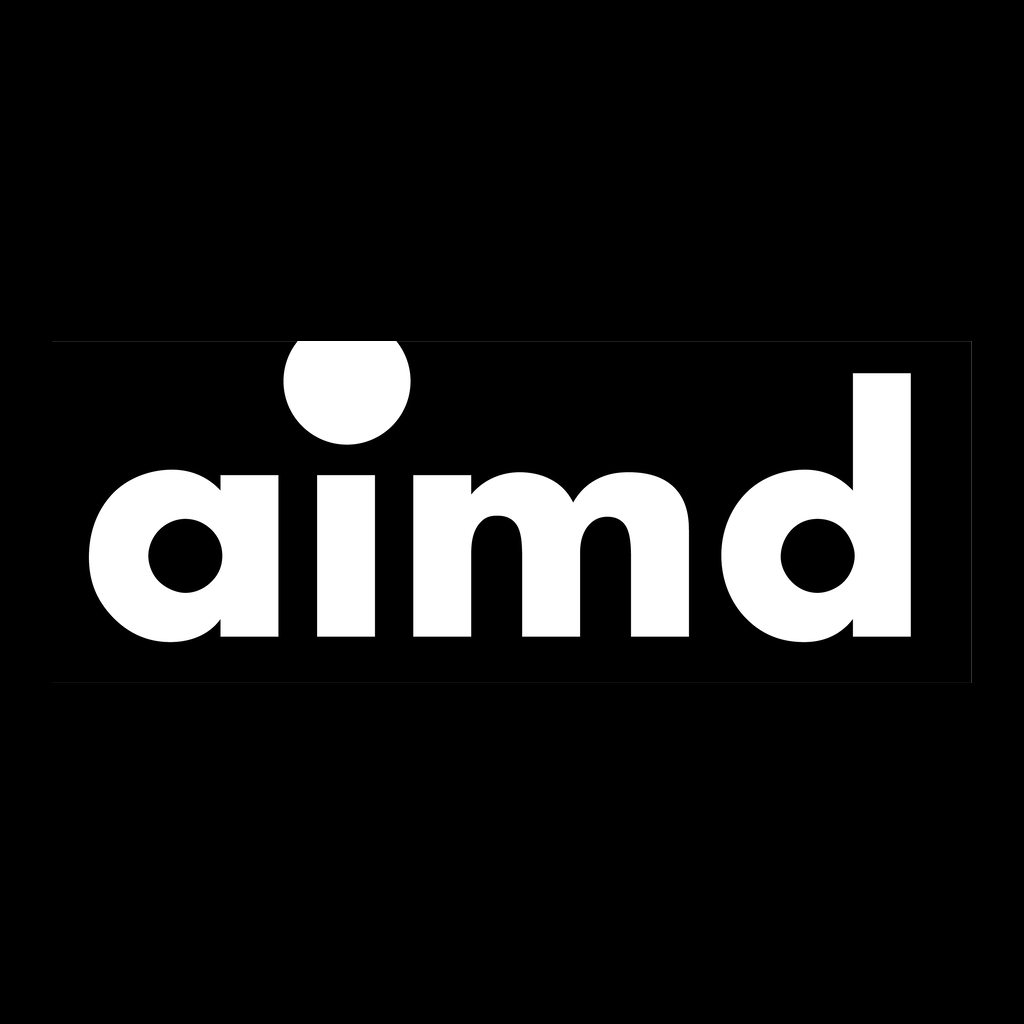
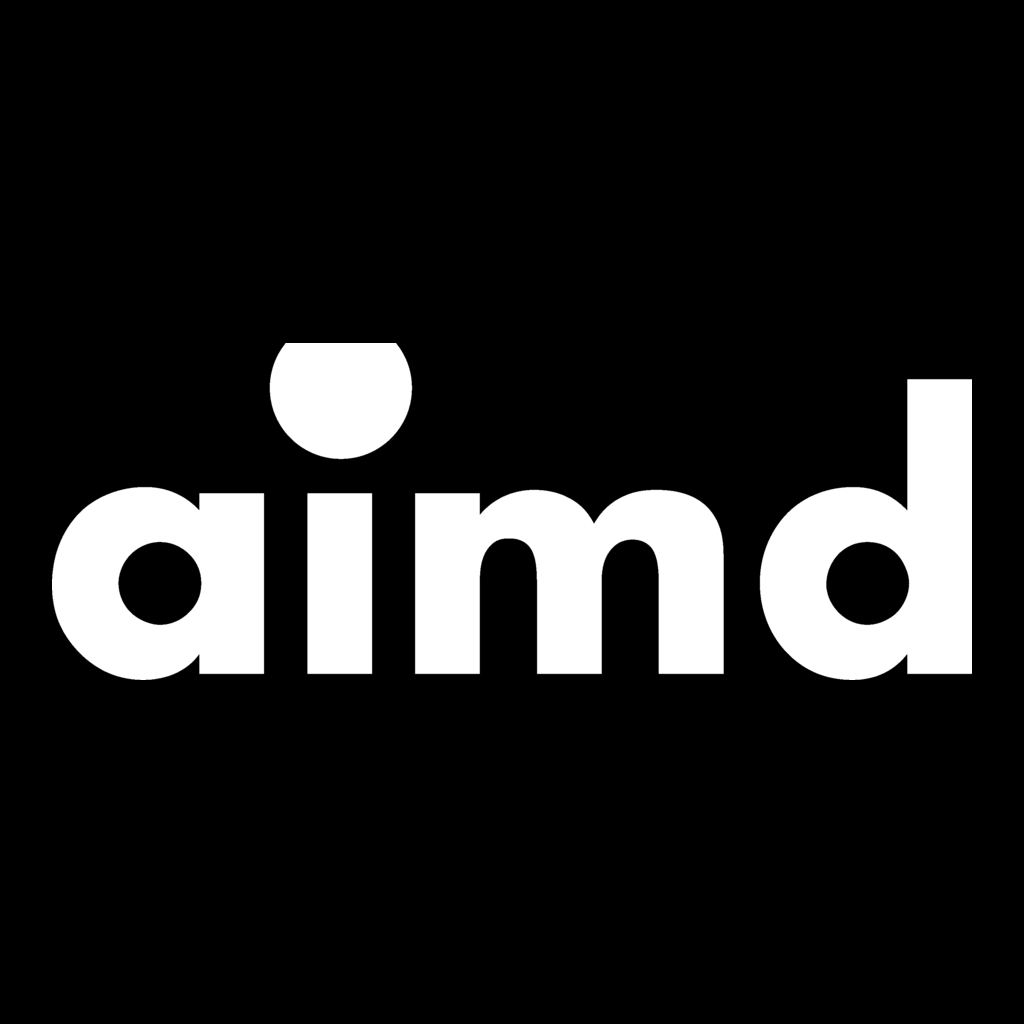
Update agent metadata and asset images
Replit-Commit-Author: Agent

Changed region(s): [[0.4062, 0.3438, 0.9688, 0.6875], [0.0312, 0.3438, 0.4062, 0.6875], [0.2812, 0.3125, 0.3125, 0.3438]]

diff --git a/.agents/memory/logo-image-preparation.md b/.agents/memory/logo-image-preparation.md
@@ -8,3 +8,7 @@ When adapting a supplied raster logo, preserve its actual letter shapes but isol
 **Why:** The supplied AIMD JPEG had a near-black panel and a faint bright edge. Both survived initial automatic trimming and became visible as a rectangular seam or stray line in the icon.
 
 **How to apply:** Inspect the isolated mark and the final composite at full and small sizes. Check opaque output for iOS and appropriate mask-safe spacing for Android; avoid AI redrawing of an existing brand mark.
+
+Transparent cutout versions of the AIMD logo can appear as faint outlines in a dark image preview. Composite against a light backing to interpret the intended white-on-black wordmark before adapting it; do not mistake the preview for an outline redesign.
+
+**Why:** The supplied original PNG used transparent letter cutouts in the black panel. A dark preview hid the letters even though the intended mark matched the original branding.
